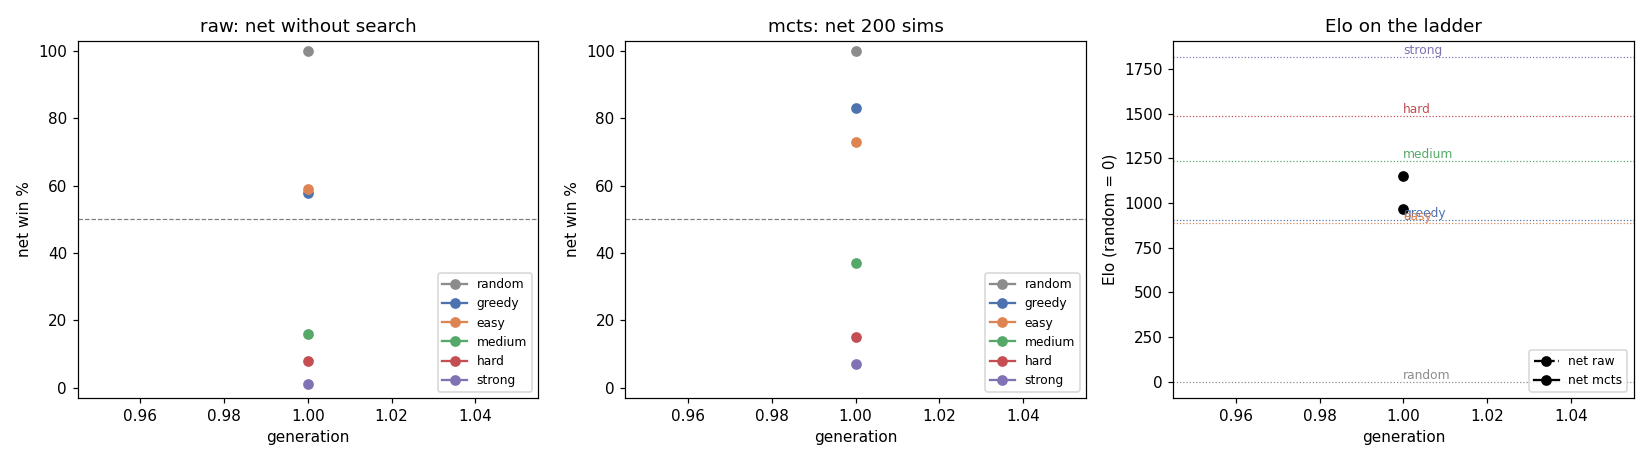
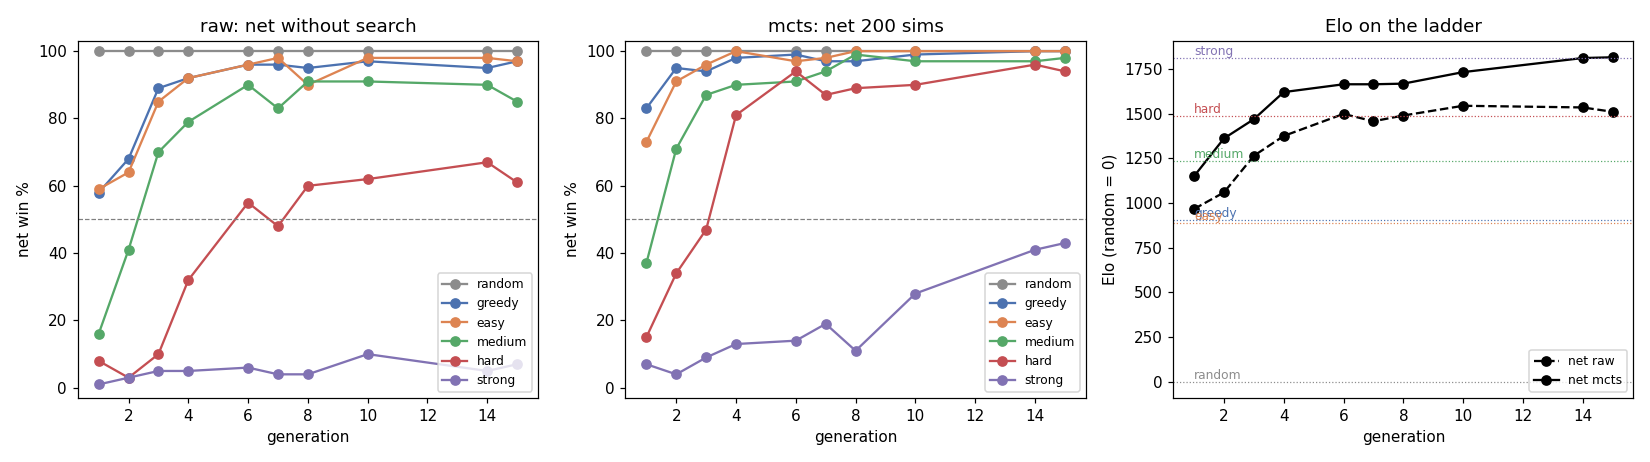
Series 9 stop-rule amendment (user, 2026-11-17, round 16): >= 117 rounds and best MCTS Elo +<= 20 over 20 rounds; 6 rejects as fallback; cap 250; tested; run resumed exactly

diff --git a/scripts/az_train.py b/scripts/az_train.py
@@ -38,7 +38,9 @@ rejected generations in a row (within the current curriculum phase; with
 ``rejects_from_gen`` only generations from that one on count), after
 ``max_hours`` of wall clock since the run started, or when an accepted generation's evaluation
 (scripts/az_eval.py) reaches MCTS ladder Elo >= ``elo`` and a win share
->= ``hard`` against hard.
+>= ``hard`` against hard. Series 9 amendment: ``max_rounds`` (hard cap), and with ``min_rounds`` a plateau stop
+(Run.plateau / plateau_rule: at least min_rounds rounds and the best MCTS Elo on ``elo_opponents`` grew by at most
+``plateau_gain`` over the last ``plateau_window`` rounds).
 
 Replay buffers can start from another run's (``init_buffers_from``: its
 run_dir); ``eval_during: false`` skips the background evaluation.
@@ -279,6 +281,23 @@ def split(n: int, k: int) -> list[int]:
     return [n // k + (i < n % k) for i in range(k)]
 
 
+def plateau_rule(rounds: int, accepted: list[int], elos: dict, sc) -> str | None:
+    """rounds done, accepted gens in order, {gen: MCTS Elo} of the evaluated ones (a prefix of accepted)."""
+    pending = [g for g in accepted if g not in elos]
+    r = (pending[0] - 1) if pending else rounds
+    if r < sc["min_rounds"]:
+        return None
+    w = sc.get("plateau_window", 20)
+
+    def best(upto):
+        return max([e for g, e in elos.items() if g <= upto], default=float("-inf"))
+
+    gain = best(r) - best(r - w)
+    if gain <= sc.get("plateau_gain", 20):
+        return f"plateau at round {r}: best MCTS Elo {best(r):.0f}, +{gain:.0f} over the last {w} rounds"
+    return None
+
+
 class Run:
     def __init__(self, cfg_path: str, generations: int | None):
         self.cfg_path = cfg_path
@@ -381,6 +400,12 @@ class Run:
         k = sc.get("max_rejects")
         if k and len(hist_ph) >= k and not any(h["accepted"] for h in hist_ph[-k:]):
             return f"{k} rejected generations in a row"
+        if sc.get("max_rounds") and len(hist) >= sc["max_rounds"]:
+            return f"hard cap: {sc['max_rounds']} rounds"
+        if sc.get("min_rounds"):
+            why = self.plateau(sc)
+            if why:
+                return why
         if sc.get("elo") is None:
             return None
         from az_eval import anchors_for, fit_one
@@ -395,6 +420,24 @@ class Run:
                 if elo >= sc["elo"] and share >= sc.get("hard", 0.0):
                     return f"gen {h['gen']}: MCTS Elo {elo:.0f}, {100 * share:.0f}% vs hard"
         return None
+
+    def plateau(self, sc) -> str | None:
+        """Series 9 amendment: R = the last round up to which every accepted generation is evaluated; stop when
+        R >= min_rounds and the best MCTS ladder Elo (on ``elo_opponents``) up to R exceeds the best up to
+        R - plateau_window by at most plateau_gain."""
+        from az_eval import anchors_for, fit_one
+        anchors, opps = anchors_for(self.cfg), sc.get("elo_opponents")
+        elos = {}
+        for h in self.state["history"]:
+            p = self.run / "eval" / f"gen_{h['gen']:04d}.json"
+            if not h["accepted"]:
+                continue
+            if not p.exists():
+                break
+            e = json.loads(p.read_text())["mcts"]
+            elos[h["gen"]] = fit_one({o: r for o, r in e.items() if opps is None or o in opps}, anchors)
+        return plateau_rule(len(self.state["history"]), [h["gen"] for h in self.state["history"]
+                                                          if h["accepted"]], elos, sc)
 
     def save(self) -> None:
         save_atomic({"net": self.net.state_dict(), "opt": self.opt.state_dict()}, self.run / "trainer.pt")

diff --git a/tests/test_graph_s9.py b/tests/test_graph_s9.py
@@ -33,7 +33,9 @@ def test_config_is_az5b():
     assert {k: v for k, v in g["eval"].items() if k != "opponents"} == {k: v for k, v in a["eval"].items()
                                                                        if k != "opponents"}
     assert set(g["eval"]["opponents"]) - set(a["eval"]["opponents"]) == {"easy"}
-    assert g["stop"] == {"max_rejects": 6} and g["update_best"] is False
+    assert g["stop"] == {"max_rejects": 6, "min_rounds": 117, "plateau_window": 20, "plateau_gain": 20,
+                         "max_rounds": 250, "elo_opponents": ["random", "greedy", "medium", "hard", "strong"]}
+    assert g["update_best"] is False
 
 
 def small_gc():
@@ -149,3 +151,20 @@ def test_resume_and_worker_count(tmp_path, monkeypatch):
     one = az_train.Run(tiny_cfg(tmp_path, "one_worker", 1), 2)
     one.loop()
     same(state_of(tmp_path / "one_worker"), ref)
+
+
+def test_plateau_rule():
+    from az_train import plateau_rule
+    sc = {"min_rounds": 117, "plateau_window": 20, "plateau_gain": 20}
+    acc = list(range(1, 131, 2))
+    flat = {g: min(g, 100) * 10.0 for g in acc}           # best grows to 990 by round 99, then flat
+    assert plateau_rule(116, [g for g in acc if g <= 116], {g: e for g, e in flat.items() if g <= 116}, sc) is None
+    assert plateau_rule(120, [g for g in acc if g <= 120], {g: e for g, e in flat.items() if g <= 120}, sc)
+    # round 117 with a gain of 21 since round 97 (best 970 at 97 -> 991 at 117): no stop
+    e = dict(flat)
+    e[117] = 991.0
+    assert plateau_rule(117, [g for g in acc if g <= 117], {g: v for g, v in e.items() if g <= 117}, sc) is None
+    # the last accepted gen not evaluated yet: judged at the round before it
+    pend = {g: v for g, v in flat.items() if g <= 119}
+    assert plateau_rule(122, [g for g in acc if g <= 122], pend, sc).startswith("plateau at round 120")
+    assert plateau_rule(118, [g for g in acc if g <= 118], {g: v for g, v in flat.items() if g <= 115}, sc) is None

diff --git a/scripts/graph_s9.py b/scripts/graph_s9.py
@@ -168,6 +168,18 @@ def cmd_report(cfg):
          + (f", stopped by the rule: {stop}" if stop else ", running") + ". Training hours: "
          + fmt(G[-1]["hours"] if G else None, "{:.1f}") + " (to the last evaluated generation).", "",
          "Workers and limits: " + "; ".join(s9.get("slots", [])) + ".", ""]
+    sc = cfg.get("stop") or {}
+    if sc.get("min_rounds") and G:
+        w = sc.get("plateau_window", 20)
+        r = G[-1]["round"] if not [h for h in hist if h["accepted"] and h["gen"] > G[-1]["gen"]] else \
+            min(h["gen"] for h in hist if h["accepted"] and h["gen"] > G[-1]["gen"]) - 1
+        best = max(x["mcts_elo"] for x in G if x["round"] <= r)
+        before = max((x["mcts_elo"] for x in G if x["round"] <= r - w), default=None)
+        L += [f"Stop rule (amendment, 2026-11-17, round 16): at least {sc['min_rounds']} rounds and the best MCTS Elo "
+              f"up by <= {sc.get('plateau_gain', 20)} over the last {w} rounds; 6 rejects in a row as the fallback; "
+              f"hard cap {sc.get('max_rounds')} rounds. Now: judged at round {r} of {sc['min_rounds']}, best MCTS Elo "
+              f"{best:.0f}, " + (f"+{best - before:.0f} over the last {w} rounds." if before is not None
+                                 else f"fewer than {w} rounds of history."), ""]
     if sp_:
         L += [f"Pace: self-play {np.mean([e['seconds'] for e in sp_[-5:]]) / 60:.0f} min per round, "
               f"{np.mean([e['sims_per_s'] for e in sp_[-5:]]):.0f} evals/s (last 5 rounds).", ""]

diff --git a/docs/graph_s9.md b/docs/graph_s9.md
@@ -1,19 +1,21 @@
 # Part 4, series 9: the graph net plays 5x5 (run g5)
 
-Generated by `scripts/graph_s9.py report` (2026-11-17 14:14). Protocol: docs/plan_part4.md (series 9), configs/g5.yaml (= configs/az5b.yaml apart from the net, from scratch, and the run plumbing). Dot = az5 (rounds 1-31) then az5b (rounds 32-119) on the same ladder; round = generation (accepted or not).
+Generated by `scripts/graph_s9.py report` (2026-11-17 20:25). Protocol: docs/plan_part4.md (series 9), configs/g5.yaml (= configs/az5b.yaml apart from the net, from scratch, and the run plumbing). Dot = az5 (rounds 1-31) then az5b (rounds 32-119) on the same ladder; round = generation (accepted or not).
 
-State: 1 rounds done, 1 accepted, running. Training hours: 0.4 (to the last evaluated generation).
+State: 15 rounds done, 10 accepted, running. Training hours: 6.4 (to the last evaluated generation).
 
 Workers and limits: from the start 2026-11-17: 6 self-play workers, no GPU memory limit, no nice (user: machine free today; 8 workers measured 19.5k vs 19.0k evals/s at 6, not worth it).
 
-Pace: self-play 22 min per round, 18346 evals/s (last 5 rounds).
+Stop rule (amendment, 2026-11-17, round 16): at least 117 rounds and the best MCTS Elo up by <= 20 over the last 20 rounds; 6 rejects in a row as the fallback; hard cap 250 rounds. Now: judged at round 15 of 117, best MCTS Elo 1816, fewer than 20 rounds of history.
+
+Pace: self-play 23 min per round, 17994 evals/s (last 5 rounds).
 
 ## Comparison by rounds
 
 | milestone | g5 round | Dot round (from the data) |
 |---|---:|---:|
-| Hard >= 90% with thinking (MCTS 200) | — | 11 (user: 17) |
-| V sign on the parity probe >= 75% | — | 11 (user: 8) |
+| Hard >= 90% with thinking (MCTS 200) | 6 | 11 (user: 17) |
+| V sign on the parity probe >= 75% | 10 | 11 (user: 8) |
 
 ## Comparison by time
 
@@ -21,9 +23,9 @@ Elo (MCTS 200 / without thinking) of the last accepted, evaluated generation wit
 
 | hours | g5 gen | g5 Elo MCTS / raw | g5 best MCTS Elo so far | Dot round | Dot Elo MCTS / raw | Dot best MCTS Elo so far |
 |---:|---:|---|---:|---:|---|---:|
-| 12 | 1 (not yet) | 1180 / 975 | 1180 | 31 | 1870 / 1614 | 1895 |
-| 24 | 1 (not yet) | 1180 / 975 | 1180 | 90 | 2151 / 1713 | 2164 |
-| 48 | 1 (not yet) | 1180 / 975 | 1180 | 114 (Dot ended at 28.4 h) | 2005 / 1684 | 2164 |
+| 12 | 15 (not yet) | 1816 / 1513 | 1816 | 31 | 1870 / 1614 | 1895 |
+| 24 | 15 (not yet) | 1816 / 1513 | 1816 | 90 | 2151 / 1713 | 2164 |
+| 48 | 15 (not yet) | 1816 / 1513 | 1816 | 114 (Dot ended at 28.4 h) | 2005 / 1684 | 2164 |
 
 ## Rounds (accepted, evaluated generations)
 
@@ -32,5 +34,14 @@ Ladder: win % with MCTS 200 / without thinking, 100 games per cell. Parity probe
 | round | hours | gating % | vs random | vs greedy | vs easy | vs medium | vs hard | vs strong | Elo MCTS / raw | policy | V sign | MCTS |
 |---:|---:|---:|---|---|---|---|---|---|---|---:|---:|---:|
 | 1 | 0.4 | 97 | 100 / 100 | 83 / 58 | 73 / 59 | 37 / 16 | 15 / 8 | 7 / 1 | 1180 / 975 | 48.6 | 50.0 | 29.4 |
+| 2 | 0.8 | 85 | 100 / 100 | 95 / 68 | 91 / 64 | 71 / 41 | 34 / 3 | 4 / 3 | 1372 / 1091 | 41.8 | 57.8 | 29.9 |
+| 3 | 1.3 | 85 | 100 / 100 | 94 / 89 | 96 / 85 | 87 / 70 | 47 / 10 | 9 / 5 | 1473 / 1280 | 49.0 | 62.9 | 49.9 |
+| 4 | 1.7 | 80 | 100 / 100 | 98 / 92 | 100 / 92 | 90 / 79 | 81 / 32 | 13 / 5 | 1618 / 1384 | 48.6 | 59.6 | 55.9 |
+| 6 | 2.6 | 55 | 100 / 100 | 99 / 96 | 97 / 96 | 91 / 90 | 94 / 55 | 14 / 6 | 1673 / 1504 | 49.0 | 66.9 | 57.4 |
+| 7 | 3.0 | 57 | 100 / 100 | 97 / 96 | 98 / 98 | 94 / 83 | 87 / 48 | 19 / 4 | 1670 / 1454 | 49.5 | 65.6 | 58.1 |
+| 8 | 3.5 | 67 | 100 / 100 | 97 / 95 | 100 / 90 | 99 / 91 | 89 / 60 | 11 / 4 | 1666 / 1513 | 49.0 | 62.0 | 61.5 |
+| 10 | 4.3 | 64 | 100 / 100 | 99 / 97 | 100 / 98 | 97 / 91 | 90 / 62 | 28 / 10 | 1732 / 1545 | 50.2 | 77.3 | 70.0 |
+| 14 | 6.0 | 70 | 100 / 100 | 100 / 95 | 100 / 98 | 97 / 90 | 96 / 67 | 41 / 5 | 1812 / 1536 | 52.0 | 73.4 | 76.3 |
+| 15 | 6.4 | 63 | 100 / 100 | 100 / 97 | 100 / 97 | 98 / 85 | 94 / 61 | 43 / 7 | 1816 / 1513 | 52.6 | 75.7 | 76.6 |
 
 ![g5 next to Dot](graph_s9.png)

diff --git a/docs/plan_part4.md b/docs/plan_part4.md
@@ -517,7 +517,8 @@ Goal: a finished graph network that plays (no deadline).
    about 22M evaluations, + 1100 steps + 100 gating games) is therefore about 20-25 min at 6 workers and about
    35-40 min at 2 workers; well under 2 h. The amendment removes the 2 h gate anyway (run at any round time).
 3. **Run g5**: Gc from scratch, configs/az5b.yaml unchanged except the net and the plumbing above. Gating 55 of 100.
-   Stop: **6 rejected generations in a row only** (amendment: no 48 h limit, no Elo stop). Changes against az5b,
+   Stop: **6 rejected generations in a row only** (amendment: no 48 h limit, no Elo stop); replaced during round 16
+   by the plateau rule below (second amendment). Changes against az5b,
    each in configs/g5.yaml and checked key by key by test_config_is_az5b: net (Gc, compile), no init_from,
    run_dir, selfplay.workers (6 today, user) and selfplay.tasks, phase_seeds, stop, eval.opponents (+ easy),
    probes: false (the az5 probe maps), update_best: false (runs/best, the app's net, is not touched), after_eval
@@ -552,6 +553,18 @@ Goal: a finished graph network that plays (no deadline).
 6. **App** (amendment): the best g5 goes into the app as a 5x5 net whatever its strength (net list, thoughts
    panel, net-vs-net mode g5 against Dot), with an honest caption of its ladder strength; screenshot; a GitHub
    release with the weights.
+- **Amendment to the stop rule** (user, 2026-11-17 20:25, written during round 16, before any plateau was in sight;
+  rounds 1-15 done, best MCTS Elo 1816): the "6 rejects in a row" rule never fired in Dot's 117 rounds (longest
+  streak 5), so the run stops normally when both hold: (1) at least 117 rounds done (as many as Dot, so that the
+  comparison at equal rounds is complete); (2) the best MCTS ladder Elo (common opponents, the best-g5 definition)
+  grew by at most 20 over the last 20 rounds. Then the protocol goes on (matches, bridge, app, release). 6 rejects
+  in a row stays as a fallback. Hard cap: 250 rounds; if reached, stop and write to the user. Best g5 is still the
+  generation with the highest MCTS Elo. Implementation (configs/g5.yaml stop: min_rounds 117, plateau_window 20,
+  plateau_gain 20, max_rounds 250, elo_opponents; az_train Run.plateau / plateau_rule, tested by
+  test_plateau_rule): the evaluation runs behind training, so the rule is judged at R = the last round up to which
+  every accepted generation is evaluated (usually the current round or the one before it): R >= 117 and
+  best Elo up to R - best Elo up to R-20 <= 20. The trainer checks it before each round, so the round in progress
+  when it fires is not started. The amendment took effect by a safe stop and an exact resume.
 - Load: today (user) 6 self-play workers, or 8 if measured faster with memory to spare; no GPU memory limit, no
   nice. When the user says "2 workers, 40%": stop at the next phase (runs/g5/STOP), set workers 2 and
   gpu_memory_fraction per process so that the sum stays <= 40%, nice -n 10, resume (exact by phase_seeds). Every

diff --git a/docs/g5_ladder.md b/docs/g5_ladder.md
@@ -1,9 +1,18 @@
 # AlphaZero 5x5 (g5) — ladder per accepted generation
 
-Generated by `scripts/az_eval.py` from `runs/g5` (2026-11-17 14:13). Win % of the net, 100 games per cell, first mover alternating; raw = policy argmax without search, mcts = 200 simulations. Elo: Bradley-Terry vs the fixed ladder anchors, random = 0. strong here: {'node_budget': 23000}.
+Generated by `scripts/az_eval.py` from `runs/g5` (2026-11-17 20:12). Win % of the net, 100 games per cell, first mover alternating; raw = policy argmax without search, mcts = 200 simulations. Elo: Bradley-Terry vs the fixed ladder anchors, random = 0. strong here: {'node_budget': 23000}.
 
 Anchor Elo (from the ladder in docs/results.md): random 0, greedy 905, easy 888, medium 1235, hard 1488, strong 1815.
 
 | gen | gating % | raw vs random | raw vs greedy | raw vs easy | raw vs medium | raw vs hard | raw vs strong | raw Elo | mcts vs random | mcts vs greedy | mcts vs easy | mcts vs medium | mcts vs hard | mcts vs strong | mcts Elo |
 |---:|---:|---:|---:|---:|---:|---:|---:|---:|---:|---:|---:|---:|---:|---:|---:|
 | 1 | 97 | 100 | 58 | 59 | 16 | 8 | 1 | 967 | 100 | 83 | 73 | 37 | 15 | 7 | 1150 |
+| 2 | 85 | 100 | 68 | 64 | 41 | 3 | 3 | 1059 | 100 | 95 | 91 | 71 | 34 | 4 | 1362 |
+| 3 | 85 | 100 | 89 | 85 | 70 | 10 | 5 | 1265 | 100 | 94 | 96 | 87 | 47 | 9 | 1469 |
+| 4 | 80 | 100 | 92 | 92 | 79 | 32 | 5 | 1376 | 100 | 98 | 100 | 90 | 81 | 13 | 1621 |
+| 6 | 55 | 100 | 96 | 96 | 90 | 55 | 6 | 1499 | 100 | 99 | 97 | 91 | 94 | 14 | 1665 |
+| 7 | 57 | 100 | 96 | 98 | 83 | 48 | 4 | 1458 | 100 | 97 | 98 | 94 | 87 | 19 | 1665 |
+| 8 | 67 | 100 | 95 | 90 | 91 | 60 | 4 | 1490 | 100 | 97 | 100 | 99 | 89 | 11 | 1668 |
+| 10 | 64 | 100 | 97 | 98 | 91 | 62 | 10 | 1545 | 100 | 99 | 100 | 97 | 90 | 28 | 1733 |
+| 14 | 70 | 100 | 95 | 98 | 90 | 67 | 5 | 1535 | 100 | 100 | 100 | 97 | 96 | 41 | 1812 |
+| 15 | 63 | 100 | 97 | 97 | 85 | 61 | 7 | 1511 | 100 | 100 | 100 | 98 | 94 | 43 | 1816 |

diff --git a/docs/overnight.md b/docs/overnight.md
@@ -1338,3 +1338,12 @@ training"; no 7x10; Dot-2 is 6x64; Dot level = MCTS ladder Elo >= 2100 and
 - Decisions of mine (in the protocol): Dot = az5 + az5b, round = generation; Dot's milestones from the stored data are round 11 for both (user quotes 17 and 8), both reported; Elo against Dot on the common opponents (no easy); best g5 = highest MCTS Elo; matches with the first 4 lines at temperature 1 (gating's value) for variety; equal time = sims matched on single-game search time; probes / update_best off so the app's net is untouched.
 - Launch 13:38 in tmux g5 (runs/g5.sh, log runs/g5.log), 6 workers, no limits. Round 1: self-play 21.7 min (18.3k evals/s, compile included), train 63 s, gating 97-3 accepted; round 2: 23.5 min self-play with the evaluator alongside, gating 85-15 accepted. Evaluation of gen 1 took ~10 min, then probe and report ran (after_eval): gen 1 MCTS Elo 1180. GPU memory 1.2 GB of 8.
 - Daily summary scheduled in this session (13:47); it ends with the session.
+
+### 2026-11-17 20:25 — series 9: stop-rule amendment (user), during round 16
+
+- User amendment written before any plateau: stop when >= 117 rounds (as Dot) and the best MCTS Elo (common
+  opponents) grew by <= 20 over the last 20 rounds; 6 rejects in a row as the fallback; hard cap 250 rounds (then
+  stop and tell the user). Reason: Dot's longest reject streak in 117 rounds was 5 (az5 max 2, az5b max 5).
+- State at the amendment: 15 rounds done (10 accepted, 5 rejected, longest streak 3), best MCTS Elo 1816 (gen 15).
+- Implemented in az_train (plateau_rule, judged at the last fully evaluated round), tested; configs/g5.yaml stop;
+  plan_part4.md. Applied by a safe stop after the self-play of round 16 (20:25:54) and an exact resume (20:26:52).
